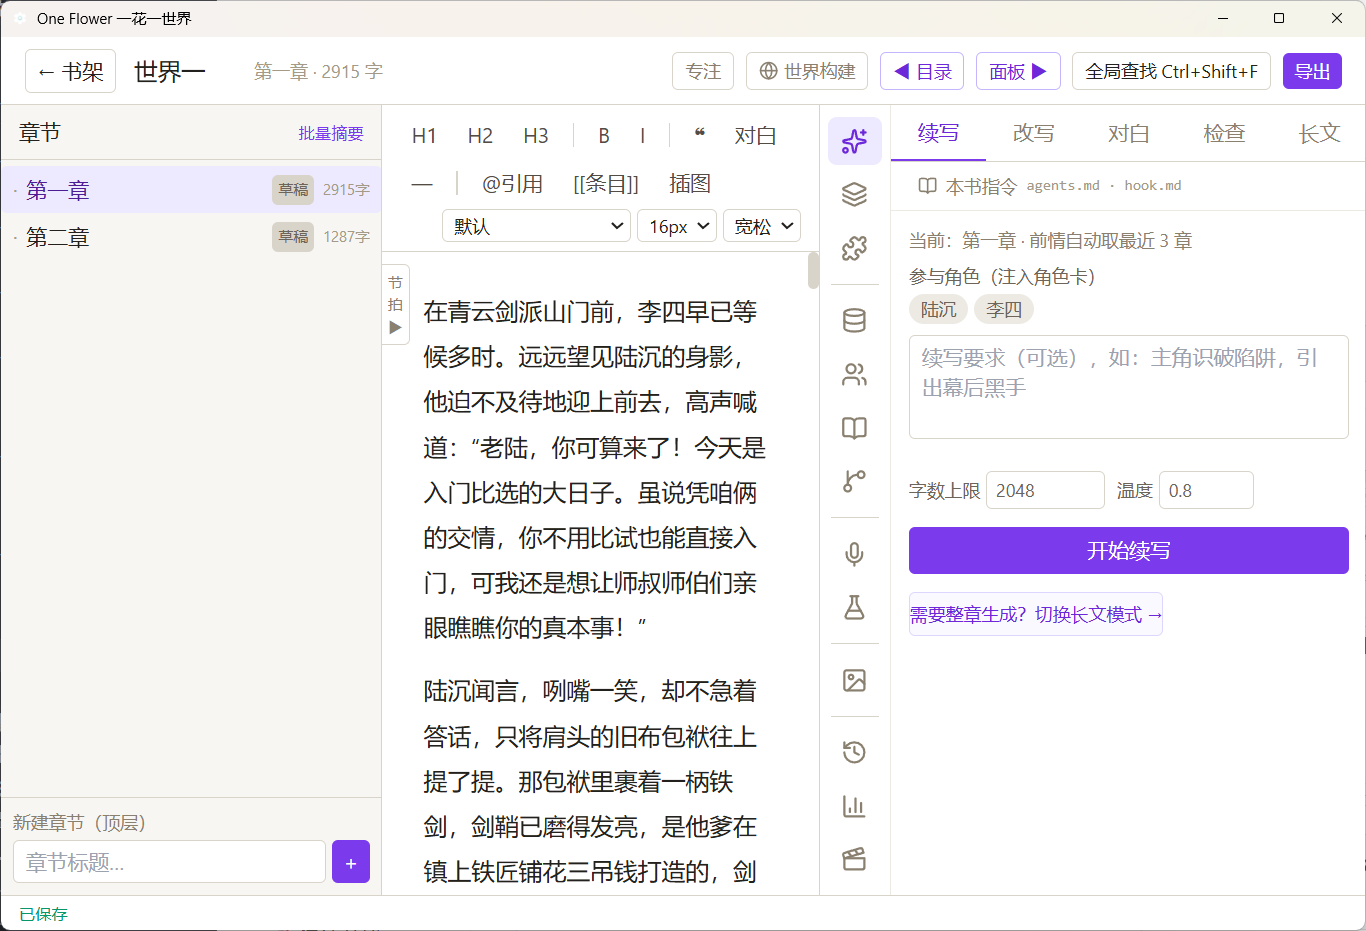
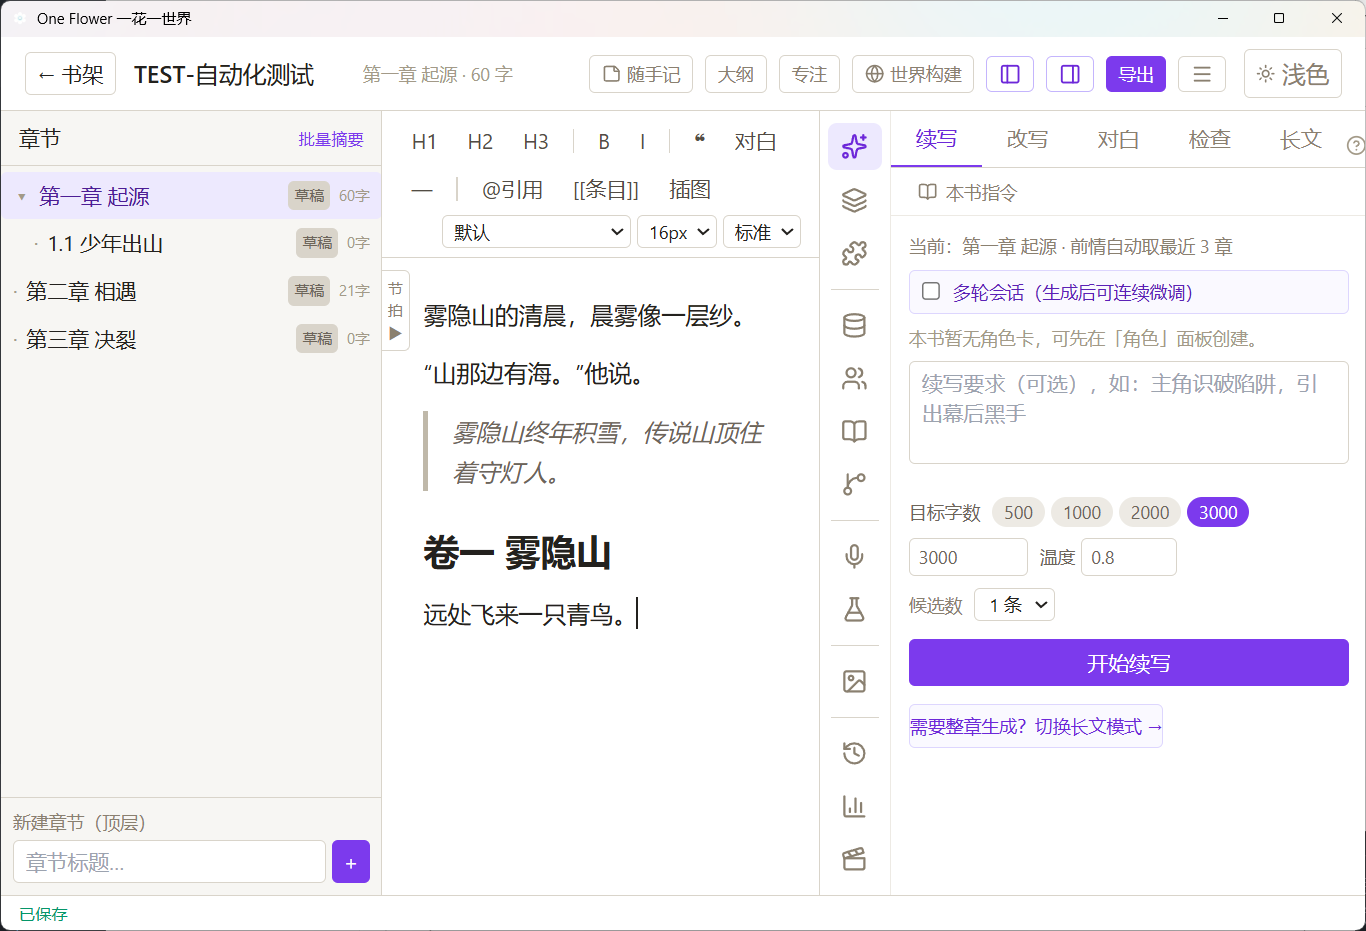
v0.12.0-e

diff --git a/README.md b/README.md
@@ -41,7 +41,9 @@
 
 ### ✍ 创作与编辑
 
-- **富文本编辑器**（TipTap）：标题 / 引用 / 对白块、字体字号行距设置、全文查找替换、粘贴自动清洗
+- **富文本编辑器**（TipTap）：标题 / 引用 / 对白块、字体字号行距设置、章内查找替换、粘贴自动清洗
+- **沉浸专注模式**：全屏打字机式写作（光标所在块自动居中滚动），标准 / 护眼 / 夜间主题跟随，本次字数与时长统计，Esc 退出
+- **随手记 / 备忘录**：全局跨书速记浮窗（markdown 编辑 / 预览、图片附件粘贴 / 拖拽 / 选择、置顶），支持备份导入导出
 - **章节树**：多卷多章树形管理、拖拽排序、摘要状态与伏笔标记（绿点埋设 / 蓝点回收）
 - **全书大纲**：编辑器顶栏「大纲」编写主线三幕 / 各卷要点 / 关键伏笔（markdown，注释行不注入），作为前瞻约束注入续写 / 改写 / 对白 / 检查与长文节拍规划，让 AI 对齐本章在全书中的定位，减少剧情跑偏
 - **@角色 / [[世界书]] / ##章节** 节点：正文中直接引用设定，随提示词自动注入
@@ -60,6 +62,8 @@
 
 - **流式输出**：实时渲染到编辑器临时节点，可随时中断；中断后三选项（保留 / 丢弃 / 继续补完）
 - **多候选生成**：续写 / 改写可一次生成 2–3 条候选（每条独立过 hook.md 校验），面板内切换预览后保留其一或全部丢弃
+- **多轮会话微调**：续写可开启「多轮会话」，生成后连续下达微调指令原地迭代（如"再压抑一点、节奏更快"），随时与上一版对比择优，采用 / 丢弃后自动清账
+- **篇幅控制**：目标字数注入「篇幅要求」并换算 maxTokens 安全网兜底（上限 / 下限可配置），超长按段界 / 句界自动收束
 - **上下文可见**：ContextPanel 展示每次调用注入的完整上下文清单与 token 占用
 
 ### 🧭 三层指令体系 + 输出校验
@@ -75,12 +79,15 @@
 
 指令编辑器内置 markdown 实时预览（编辑 / 分屏 / 预览三视图）、规则可视化编辑与测试沙盒。
 
+
 ### 📇 设定管理
 
 - **角色卡**：模板可视化构建器（拖拽字段 / 实时预览 / JSON 导入导出），结构化角色数据
 - **角色关系图**（React Flow）：圆形布局、拖拽节点、连线建关系、点击跳转角色卡
 - **世界书 RAG**：条目自动向量化（embedding），续写时余弦检索注入；章节片段全量 RAG 三路召回
+- **命名生成器**：类型（角色 / 地点 / 招式 / 势力）× 题材 × 性别 × 数量批量生成命名，可收藏、一键创建角色卡、存入世界书
 - **伏笔追踪**：埋设 / 回收 / 弃用管理，时间线可视化，未回收过滤
+- **故事时间线**：多泳道事件视图，卡片拖拽排序与跨线移动，事件可关联章节与角色，辅助梳理多线剧情
 - **设定反推**：从章节与世界书抽取事实、推导技术/社会前提，检测"无光学工艺却出现望远镜"式越级矛盾
 
 ### 🗺 世界地图
@@ -128,6 +135,8 @@
 - **角色采访**：AI 扮演角色回答提问（注入角色卡保持一致性），六种采访角度切换；摘要预览后确认才写入角色卡
 - **"如果…会怎样"推演器**：剧情假设 + 锚点章节 + 推演范围 → 影响范围 / 角色弧光对比 / 分支点 / 风险 / AI 建议
 - **灵感库**：跨书共享仓库，类型筛选 + 收藏 + 搜索
+- **一把炼化（SkillForge）**：粘贴文本 / 上传文件 / 选库内书籍，AI 自动提炼为成体系文风 Skill（头中尾三段采样、超限分片、成本预估确认后执行）；定位"激发而非替代"，炼化结果可再编辑打磨
+- **Skill 创建与热重载**：应用内「创建 Skill」向导生成规范 SKILL.md 写入 skills 目录；目录文件监听，改动即时生效无需重启
 
 ### 🔌 模型接入
 
@@ -139,6 +148,13 @@
 ### 📊 写作统计
 
 今日字数 · 目标进度 · 近 30 天趋势图 · 连续写作天数（streak）
+
+### 🎨 界面与体验
+
+- **三主题系统**：浅色 / 深色 / 护眼一键切换（顶栏循环按钮 + 设置页双入口），启动首帧前应用主题防闪白
+- **快捷键自定义**：保存、全局查找等命令可改绑，冲突检测与一键恢复默认
+- **新手引导**：首次启动主线引导 + 各面板「?」单点引导（锚点缺失自动跳步），设置页可重看全部引导
+- **客户端更新检查**：启动静默检查 GitHub Release 新版本，可忽略指定版本，一键打开下载页
 
 ## 📸 界面预览
 
@@ -231,9 +247,9 @@ npm run tauri build
 npm run typecheck
 npm run build
 
-# 测试用命令-单元测试+端到端测试
-npm run tauri test:unit
-npm run tauri test:e2e
+# 测试：单元测试（vitest）+ 端到端测试（playwright）
+npm run test:unit
+npm run test:e2e
 ```
 
 ## ⚙ 首次配置
@@ -242,7 +258,7 @@ npm run tauri test:e2e
 2. **模型分工**：设置 → 模型分工，按功能域（写作生成 / 规划与校验 / 灵感与素材 / 视觉生成 / 向量与后台）绑定不同配置；未绑定的功能默认使用第一组配置。徽章提示强度建议：写作生成建议强模型，章节摘要等后台任务用便宜模型
 3. **向量嵌入（可选）**：为「向量嵌入」绑定支持 embeddings 的配置并填嵌入模型（如 `text-embedding-3-small`，或 Ollama 本地嵌入模型实现离线 RAG）；更换嵌入模型后需在世界书面板重新批量向量化
 4. **本书指令（可选）**：编辑器 AI 面板顶部「本书指令」编写 agents.md（世界观铁律 / 称谓 / 禁令）与 hook.md（输出替换 / 提醒 / 阻断规则），设置页「指令说明」有完整优先级说明
-5. **文风 Skill（可选）**：将 Skill 文件放入 `~/.novelagent/skills/`，在编辑器「AI」分组的 Skill 面板启用
+5. **文风 Skill（可选）**：将 Skill 文件放入 `~/.novelagent/skills/`（应用内「创建 Skill」向导可自动生成；改动自动热重载），在编辑器「AI」分组的 Skill 面板启用；也可用「一把炼化」从文本 / 书籍提炼文风
 
 ## 🔒 数据存储
 
@@ -252,6 +268,7 @@ npm run tauri test:e2e
 |---|---|
 | 应用数据（数据库、书籍、版本快照、图片资产、地图） | 系统应用数据目录（Windows：`%APPDATA%\com.oneflower.novelagent`） |
 | 全局地图素材库 | 应用数据目录 `map-assets/`（跨书共享） |
+| 备忘录附件 | 应用数据目录 `notes/`（随备忘录 zip 备份导入导出） |
 | 文风 Skill | `~/.novelagent/skills/` |
 | API Key | 操作系统钥匙串 |
 
@@ -260,18 +277,24 @@ npm run tauri test:e2e
 ```
 src/
   components/    # UI 组件（编辑器、章节树、AI 面板、角色/世界书/伏笔/统计、
-                 #   地图 map/、图片 image/、剧本 screenplay/、灵感 inspiration/ 等）
+                 #   地图 map/、图片 image/、剧本 screenplay/、灵感 inspiration/、
+                 #   命名 namegen/、时间线 timeline/、随手记 notes/、查找 search/、
+                 #   引导 onboarding/、炼化 skillforge/、更新 update/、设置 settings/ 等）
   context/       # 应用上下文（服务装配）
   db/            # SQLite 初始化、版本化迁移（migrations/）、单写队列
   native/        # Tauri 桥（storage/fs/db/keyStore）、对话框封装
-  routes/        # 页面（首页书架 / 编辑器 / 灵感库 / 设置）
+  routes/        # 页面（首页书架 / 编辑器 / 灵感库 / 一把炼化 / 回收站 / 设置）
   services/      # 业务服务（AI 编排与提示词组装、Provider 工厂、摘要链、RAG、
                  #   地图（含素材库/地形预设/迁移）、图片资产、剧本（CRUD/转化编排/
-                 #   分镜）、灵感包、导入导出、统计、Skill 等）
+                 #   分镜）、灵感包、命名 namegen/、时间线 timeline/、随手记 notes/、
+                 #   全局查找 search/、更新 update/、引导 onboarding/、自动备份、
+                 #   导入导出、统计、Skill（含一把炼化）等）
   store/         # Zustand 状态（book/editor/ai/settings/task）
   types/         # 共享类型定义
-src-tauri/       # Rust 侧：命令、存储桥、窗口配置
+src-tauri/       # Rust 侧：命令、存储桥、窗口配置（bundled SQLite + FTS5、
+                 #   钥匙串、Skill 目录监听）
 docs/screenshots/# 界面截图（README 展示用）
+.github/workflows/# CI（三平台质量门禁）与 Release（打 tag 跨平台打包）
 ```
 
 ## 🗺 路线图
@@ -285,6 +308,9 @@ docs/screenshots/# 界面截图（README 展示用）
 - [x] **P4 - 深化优化**：Ollama / LM Studio 本地模型、模型列表拉取、ComfyUI 生图 Provider、地图数据层预留
 - [x] **P4.1 - 地图重设计**：全局素材库（上传 / 内置 SVG / HSV 调色）、多层瓦片地形、七种预设地形生成（seeded 复现）、折线拐点、自动布局、AI 底图、插入正文
 - [x] **P5 - 剧本工作台**：小说→剧本转化（大纲可编辑 + 逐场生成）、剧本编辑器、分镜画板（AI / 上传 / 图库三来源 + 角色一致性注入）、Fountain 与分镜表导出
+- [x] **P6 - 数据安全与书架增强**：回收站软删除、自动定期备份、书架置顶 / 手动排序 / 搜索筛选
+- [x] **P7 - 体验与效率深化**：新手引导、软件内确认弹窗、浅色 / 深色 / 护眼三主题、快捷键自定义、沉浸专注模式、随手记备忘录、全书级查找替换、客户端更新检查
+- [x] **P7.x - AI 迭代与创作工具补全**：多轮会话微调（会话块）、生成篇幅安全网、一把炼化（SkillForge）、Skill 创建向导与热重载、全书大纲注入开关、命名生成器、故事时间线
 - [ ] **Pn - 建设中**
 
 ## 🤝 参与贡献
